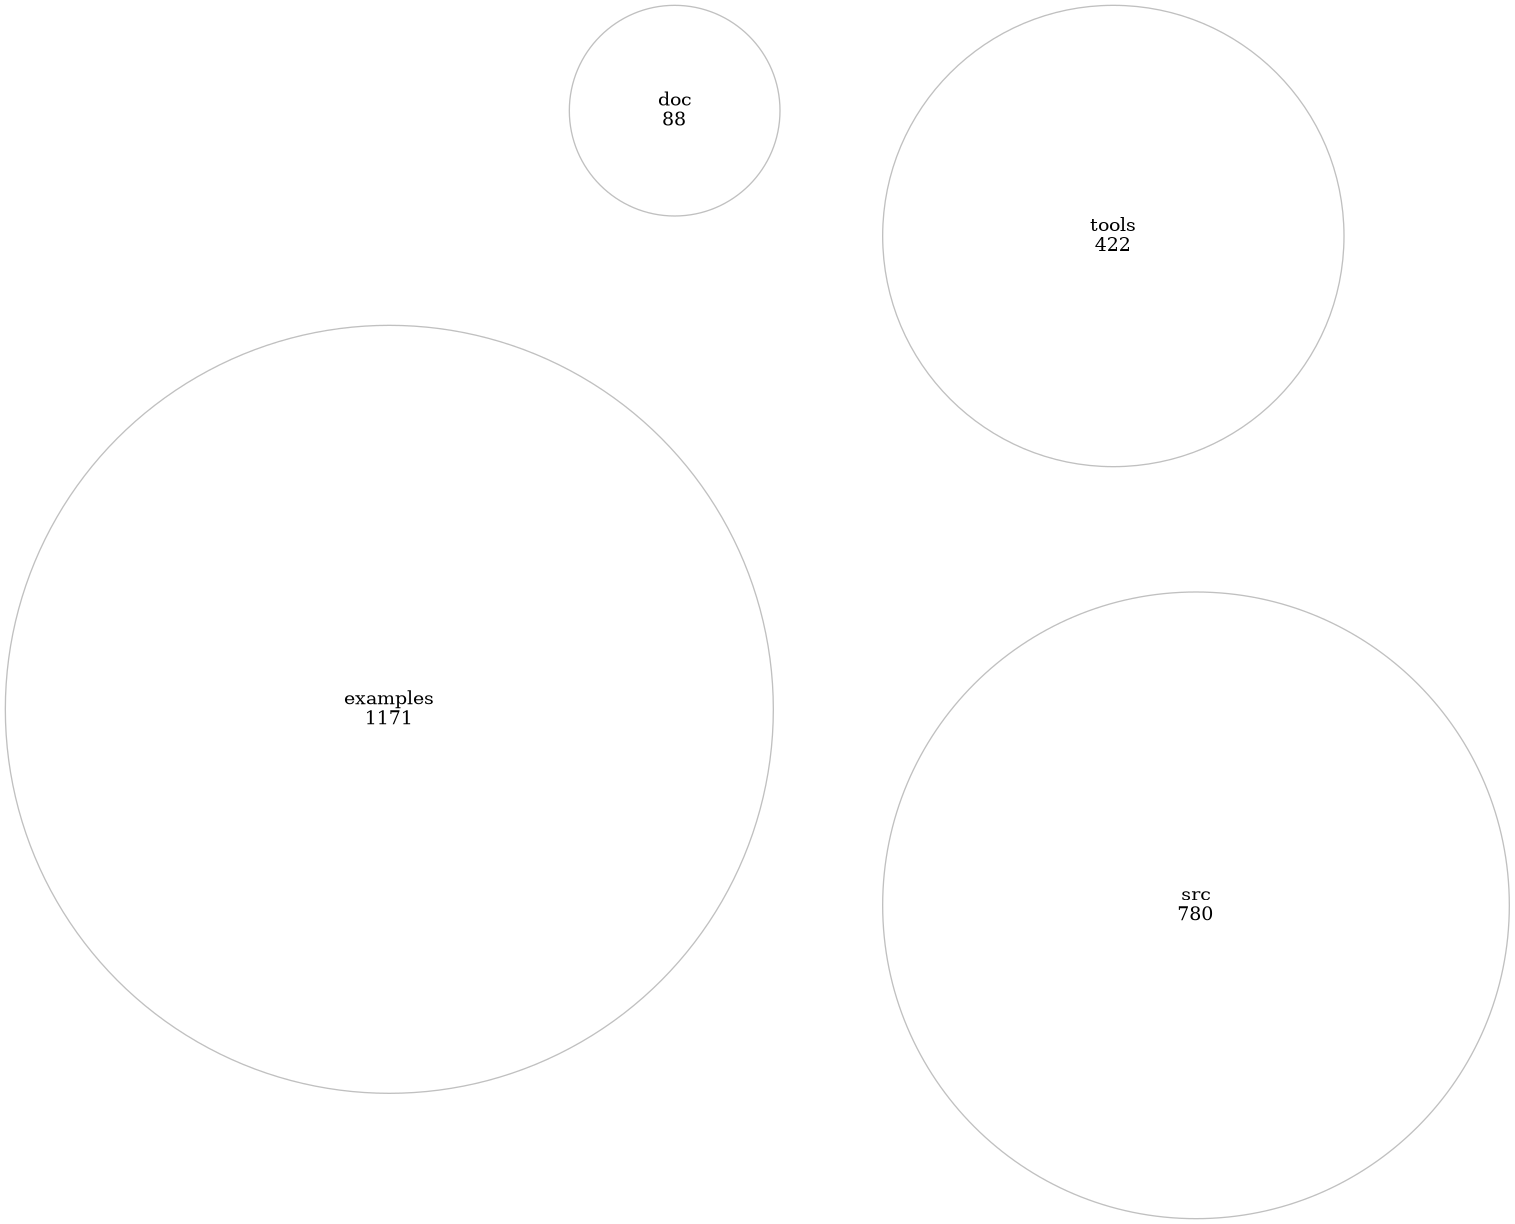
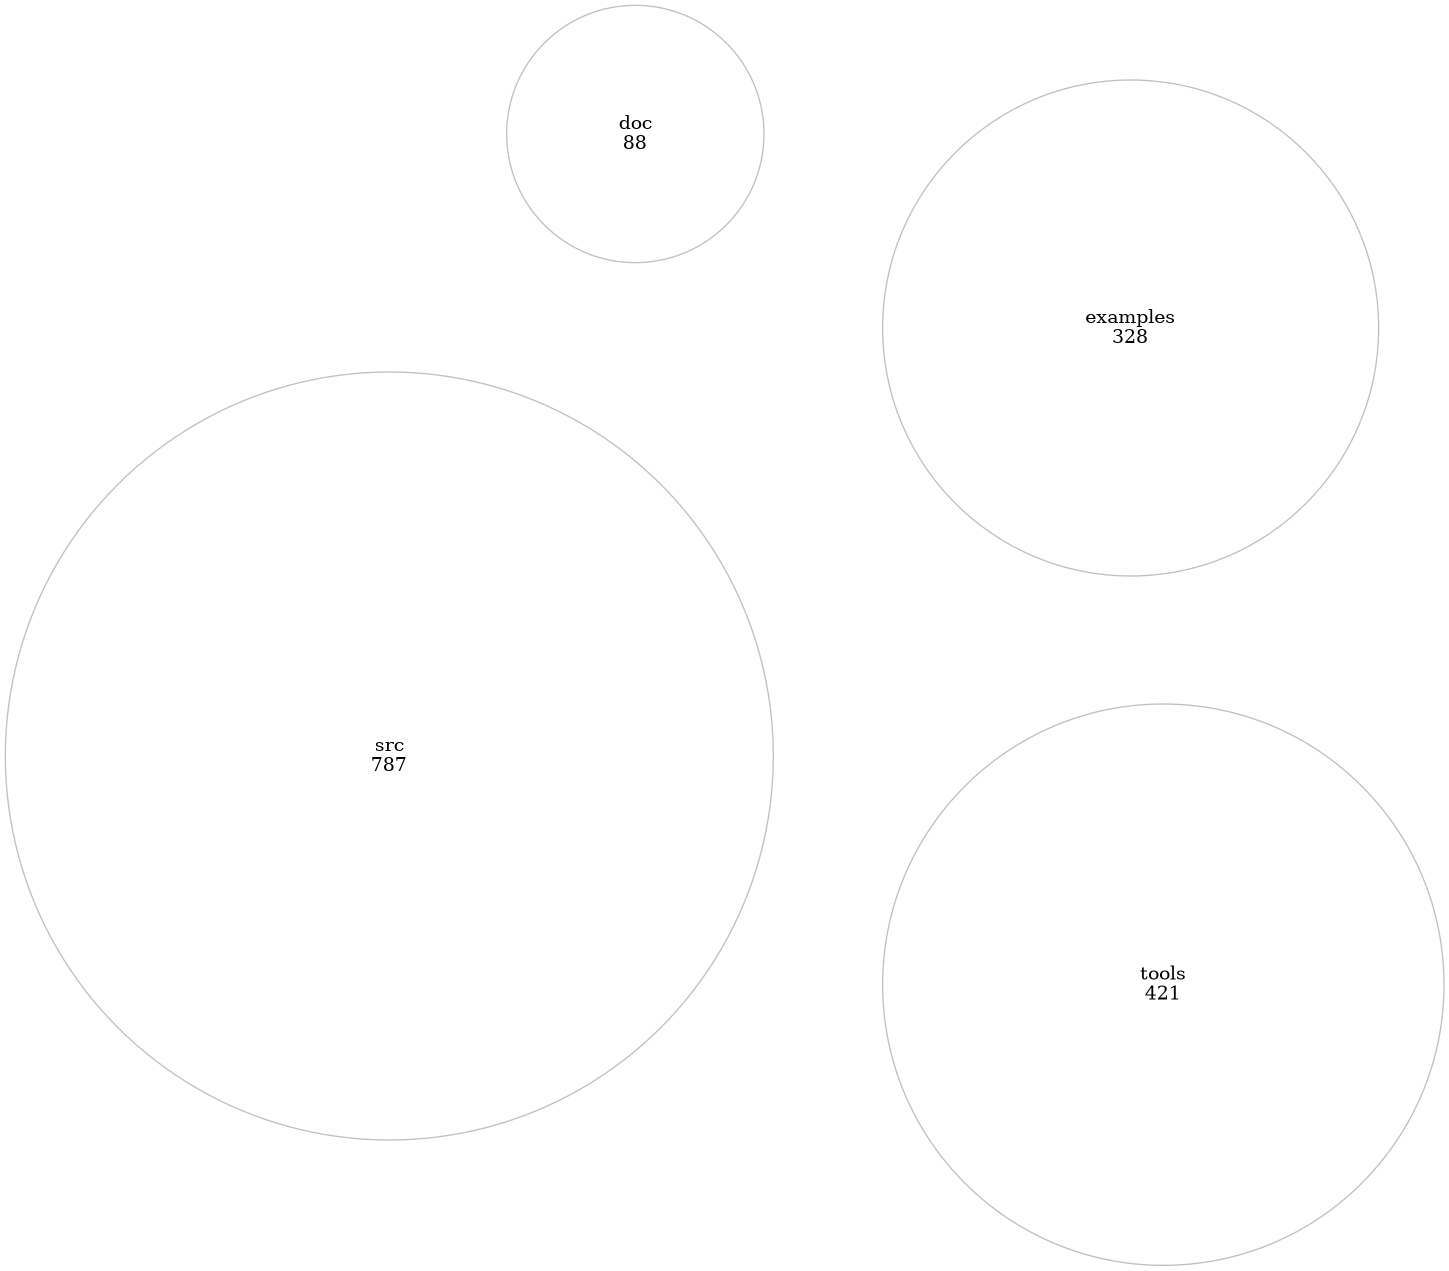
Update scripts

diff --git a/examples/project/cloc_tree/graphs/index.html b/examples/project/cloc_tree/graphs/index.html
@@ -38,13 +38,13 @@ Project is distributed under the BSD 3-Clause license.
         <img src="index.png" alt="graph" usemap="#index">
 <map id="index" name="index">
 <area shape="circle" id="node1" href="index_src.html" title="node: src
-780" alt="" coords="1196,905,313"/>
+787" alt="" coords="389,756,384"/>
 <area shape="circle" id="node2" href="index_tools.html" title="node: tools
-422" alt="" coords="1113,236,231"/>
+421" alt="" coords="1163,985,281"/>
 <area shape="circle" id="node3" href="index_doc.html" title="node: doc
-88" alt="" coords="675,111,105"/>
+88" alt="" coords="635,134,129"/>
 <area shape="circle" id="node4" href="index_examples.html" title="node: examples
-1171" alt="" coords="389,709,384"/>
+328" alt="" coords="1131,328,248"/>
 </map>
 
 
@@ -52,15 +52,15 @@ Project is distributed under the BSD 3-Clause license.
     <pre class="clocsection section">-------------------------------------------------------------------------------
 Language                     files          blank        comment           code
 -------------------------------------------------------------------------------
-HTML                            26            154            105           1087
 Python                          17            314            288            826
-Bourne Shell                    21            313            129            460
-Markdown                         2             28              0             69
-Text                             4              4              0             69
+Bourne Shell                    20            304            127            446
+HTML                             7             37             29            267
+Markdown                         2             28              0             71
+Text                             4              3              0             69
 XML                              2              0              0             25
 C++                              1              5              7             12
 -------------------------------------------------------------------------------
-SUM:                            73            818            529           2548
+SUM:                            53            691            451           1716
 -------------------------------------------------------------------------------</pre>
 </body>
 </html>

diff --git a/examples/project/cloc_tree/graphs/index_examples.html b/examples/project/cloc_tree/graphs/index_examples.html
@@ -37,10 +37,8 @@ Project is distributed under the BSD 3-Clause license.
     <div class="graphsection section">
         <img src="index_examples.png" alt="graph" usemap="#index_examples">
 <map id="index_examples" name="index_examples">
-<area shape="circle" id="node1" href="index_examples_project.html" title="node: project
-865" alt="" coords="389,389,384"/>
-<area shape="circle" id="node2" href="index_examples_simple.html" title="node: simple
-313" alt="" coords="1100,687,231"/>
+<area shape="circle" id="node1" href="index_examples_simple.html" title="node: simple
+319" alt="" coords="389,389,384"/>
 </map>
 
 
@@ -48,12 +46,12 @@ Project is distributed under the BSD 3-Clause license.
     <pre class="clocsection section">-------------------------------------------------------------------------------
 Language                     files          blank        comment           code
 -------------------------------------------------------------------------------
-HTML                            26            154            105           1087
-Bourne Shell                     4             40             14             66
+HTML                             7             37             29            267
+Bourne Shell                     3             28             11             43
 C++                              1              5              7             12
 Text                             1              0              0              6
 -------------------------------------------------------------------------------
-SUM:                            32            199            126           1171
+SUM:                            12             70             47            328
 -------------------------------------------------------------------------------</pre>
 </body>
 </html>

diff --git a/examples/project/cloc_tree/graphs/index_examples_simple.html b/examples/project/cloc_tree/graphs/index_examples_simple.html
@@ -49,11 +49,11 @@ Project is distributed under the BSD 3-Clause license.
 Language                     files          blank        comment           code
 -------------------------------------------------------------------------------
 HTML                             7             37             29            267
-Bourne Shell                     1             14              4             28
+Bourne Shell                     1             16              5             34
 C++                              1              5              7             12
 Text                             1              0              0              6
 -------------------------------------------------------------------------------
-SUM:                            10             56             40            313
+SUM:                            10             58             41            319
 -------------------------------------------------------------------------------</pre>
 </body>
 </html>

diff --git a/examples/project/cloc_tree/graphs/index_src.html b/examples/project/cloc_tree/graphs/index_src.html
@@ -49,10 +49,10 @@ Project is distributed under the BSD 3-Clause license.
 Language                     files          blank        comment           code
 -------------------------------------------------------------------------------
 Python                          16            280            265            720
-Text                             2              2              0             43
-Bourne Shell                     3             22             16             17
+Text                             2              1              0             43
+Bourne Shell                     3             23             16             24
 -------------------------------------------------------------------------------
-SUM:                            21            304            281            780
+SUM:                            21            304            281            787
 -------------------------------------------------------------------------------</pre>
 </body>
 </html>

diff --git a/examples/project/cloc_tree/graphs/index_tools.html b/examples/project/cloc_tree/graphs/index_tools.html
@@ -40,10 +40,10 @@ no subdirs with results
     <pre class="clocsection section">-------------------------------------------------------------------------------
 Language                     files          blank        comment           code
 -------------------------------------------------------------------------------
-Bourne Shell                    11            211             83            316
+Bourne Shell                    11            212             85            315
 Python                           1             34             23            106
 -------------------------------------------------------------------------------
-SUM:                            12            245            106            422
+SUM:                            12            246            108            421
 -------------------------------------------------------------------------------</pre>
 </body>
 </html>

diff --git a/README.md b/README.md
@@ -42,6 +42,7 @@ Code linters can be run by `./tools/checkall.sh`.
 
 ## License
 
+```
 BSD 3-Clause License
 
 Copyright (c) 2024, Arkadiusz Netczuk <dev.arnet@gmail.com>
@@ -70,3 +71,4 @@ SERVICES; LOSS OF USE, DATA, OR PROFITS; OR BUSINESS INTERRUPTION) HOWEVER
 CAUSED AND ON ANY THEORY OF LIABILITY, WHETHER IN CONTRACT, STRICT LIABILITY,
 OR TORT (INCLUDING NEGLIGENCE OR OTHERWISE) ARISING IN ANY WAY OUT OF THE USE
 OF THIS SOFTWARE, EVEN IF ADVISED OF THE POSSIBILITY OF SUCH DAMAGE.
+```
